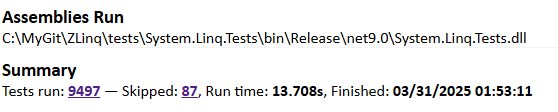
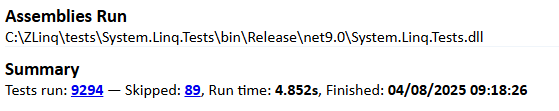
t

diff --git a/README.md b/README.md
@@ -30,7 +30,7 @@ foreach (var item in seq) { }
 * **LINQ to SIMD** to automatic application of SIMD where possible and customizable arbitrary operations
 * Optional **Drop-in replacement** Source Generator to automatically accelerate all LINQ methods
 
-In ZLinq, we have proven high compatibility and performance by running [dotnet/runtime's System.Linq.Tests](https://github.com/Cysharp/ZLinq/tree/main/tests/System.Linq.Tests) as a drop-in replacement, passing 9,500 tests.
+In ZLinq, we have proven high compatibility and performance by running [dotnet/runtime's System.Linq.Tests](https://github.com/Cysharp/ZLinq/tree/main/tests/System.Linq.Tests) as a drop-in replacement, passing 9000 tests.
 
 ![](img/testrun.png)
 
@@ -135,6 +135,8 @@ Since `ValueEnumerable<T>` is not an `IEnumerable<T>`, it cannot be passed to me
 `String.Join` has overloads for both `IEnumerable<string>` and `params object[]`. Passing `ValueEnumerable<T>` directly will select the `object[]` overload, which may not give the desired result. In this case, use the `JoinToString` operator instead.
 
 `ValueEnumerable<T>` is a struct, and its size increases slightly with each method chain. With many chained methods, copy costs can become significant. When iterating over small collections, these copy costs can outweigh the benefits, causing performance to be worse than standard LINQ. However, this is only an issue with extremely long method chains and small iteration counts, so it's rarely a practical concern.
+
+In .NET 8 and above, the `Sum` and `Average` methods for `double` use SIMD processing, which performs parallel processing based on SIMD width. This results in calculation errors that differ from normal ones due to the different order of addition.
 
 Drop-in replacement
 ---
